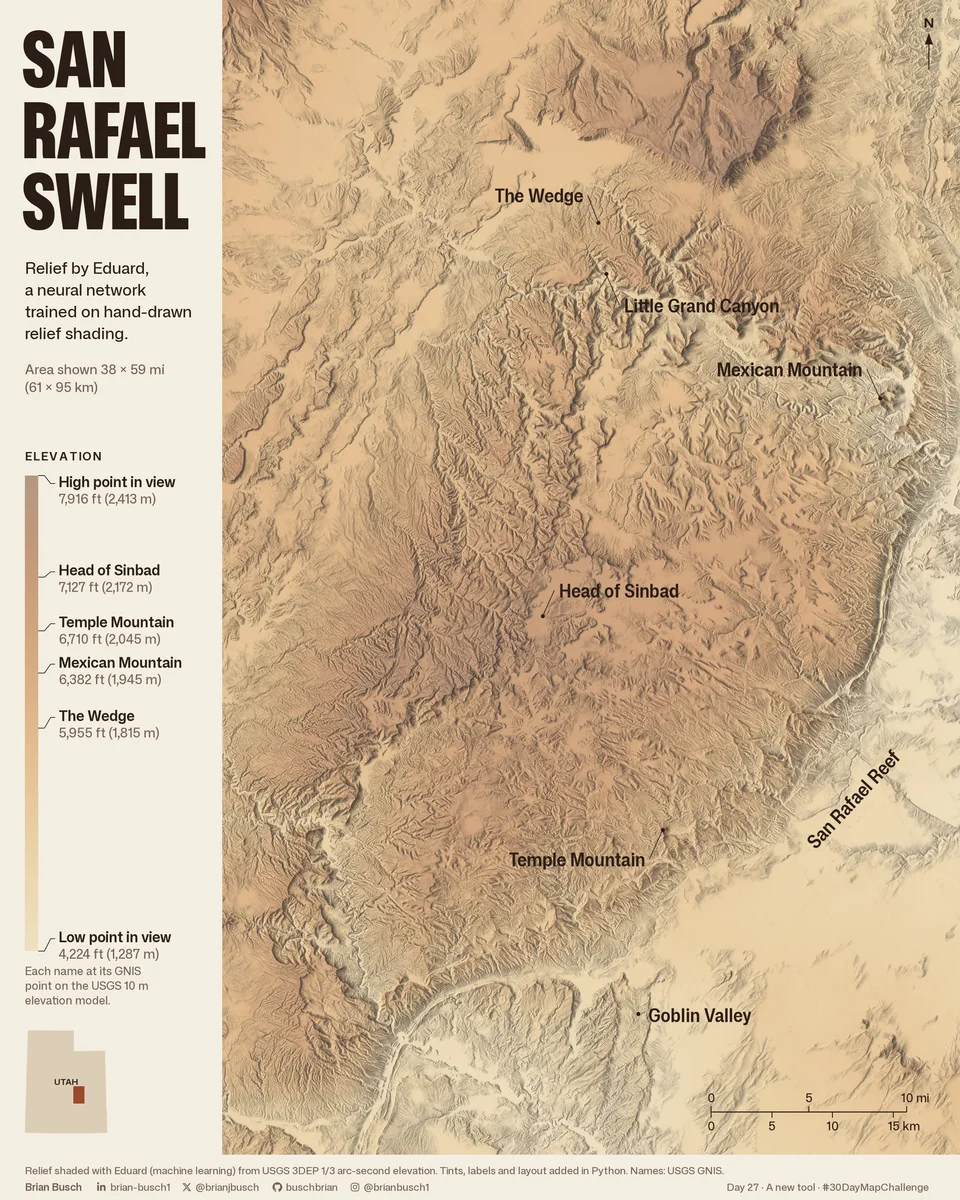
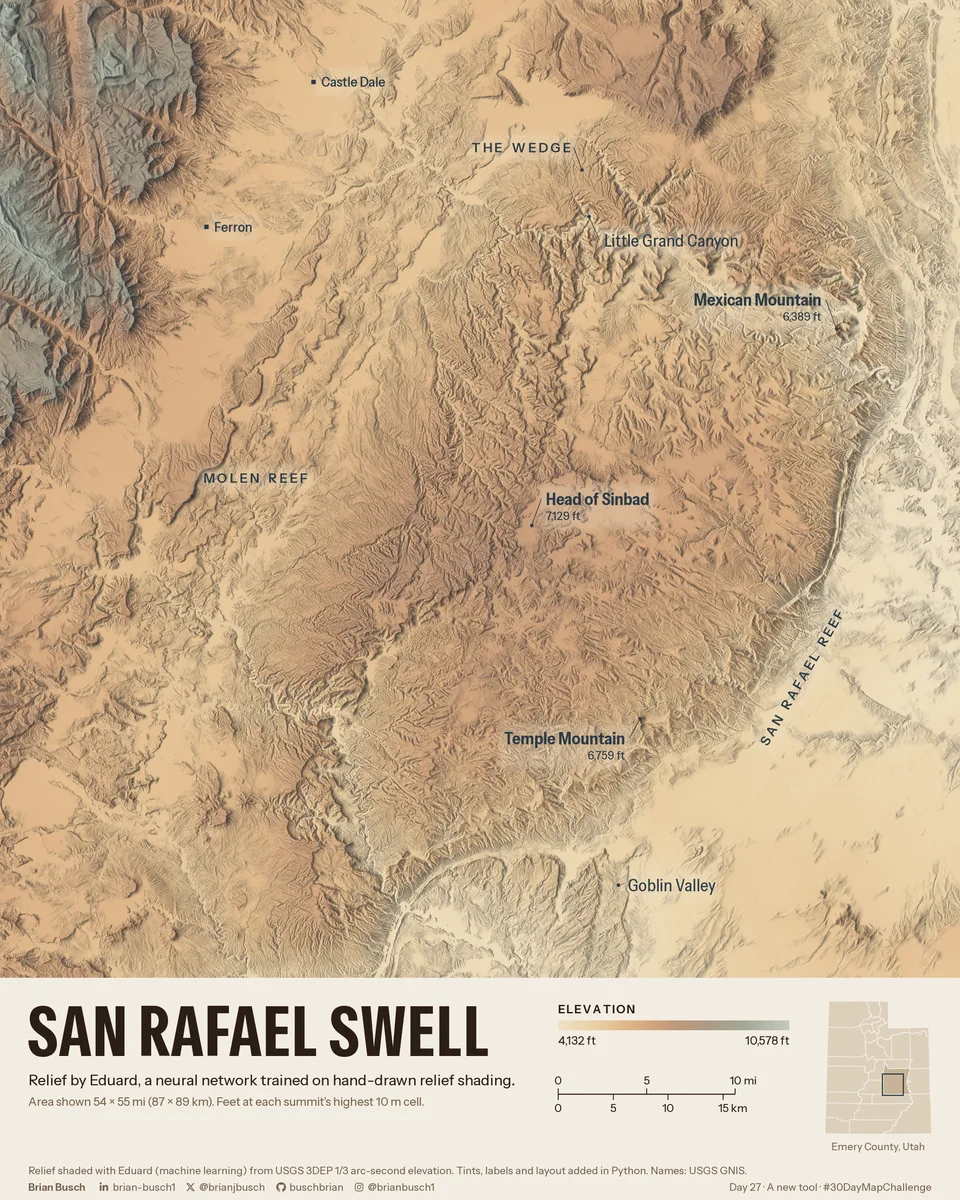
Use the band layout for the Day 27 map
The map now shows the whole shading frame with the title, key and
locator in a band under it. The north arrow is gone. Summit labels
give their height at the highest 10 m cell near each GNIS point.

Update the note text, alternative text and social card to match.

diff --git a/notes/shading-the-san-rafael-swell/index.html b/notes/shading-the-san-rafael-swell/index.html
@@ -17,7 +17,7 @@
     <meta property="og:title" content="Shading the San Rafael Swell | Brian Busch, GISP">
     <meta property="og:description" content="Eight tests with Eduard Cloud show how the terrain around the San Rafael Swell changes the look of its shaded relief.">
     <meta property="og:image" content="https://buschbrian.github.io/assets/images/shading-the-san-rafael-swell-card.jpg">
-    <meta property="og:image:alt" content="Tan shaded relief of the San Rafael Swell, with canyons and ridges along the eastern reef.">
+    <meta property="og:image:alt" content="Tan shaded relief of the south end of the San Rafael Swell, above the map title and elevation key.">
     <meta property="og:image:width" content="1200">
     <meta property="og:image:height" content="630">
     <meta property="article:author" content="Brian Busch">
@@ -74,7 +74,7 @@
           </div>
         </header>
         <figure class="post-hero-image">
-          <picture><source type="image/webp" srcset="/assets/images/r/san-rafael-swell-eduard-480.webp 480w, /assets/images/r/san-rafael-swell-eduard-960.webp 960w, /assets/images/r/san-rafael-swell-eduard-1440.webp 1440w, /assets/images/r/san-rafael-swell-eduard-2160.webp 2160w" sizes="(max-width: 720px) 90vw, 720px"><img src="/assets/images/san-rafael-swell-eduard.jpg" alt="Shaded relief of the San Rafael Swell. Light tan desert surrounds a darker brown dome cut by narrow canyons. The San Rafael Reef forms its sharp eastern edge. An elevation ladder marks Head of Sinbad, Temple Mountain, Mexican Mountain, and The Wedge." width="2160" height="2700"></picture>
+          <picture><source type="image/webp" srcset="/assets/images/r/san-rafael-swell-eduard-480.webp 480w, /assets/images/r/san-rafael-swell-eduard-960.webp 960w, /assets/images/r/san-rafael-swell-eduard-1440.webp 1440w, /assets/images/r/san-rafael-swell-eduard-2160.webp 2160w" sizes="(max-width: 720px) 90vw, 720px"><img src="/assets/images/san-rafael-swell-eduard.jpg" alt="Shaded relief of the San Rafael Swell. Light tan desert surrounds a darker brown dome cut by narrow canyons. The San Rafael Reef forms its sharp eastern edge. The gray-green Wasatch Plateau rises in the northwest corner. Labels give the height of Head of Sinbad, Temple Mountain, and Mexican Mountain." width="2160" height="2700"></picture>
           <figcaption>San Rafael Swell shaded in Eduard. <a href="/assets/images/san-rafael-swell-eduard.jpg">Open the full map</a>.</figcaption>
         </figure>
         <div class="post-content">
@@ -82,10 +82,16 @@
           <p>I used one USGS elevation model for a GDAL multidirectional hillshade and eight tests in Eduard Cloud. The grid has cells about 10 meters across. Eduard learned to shade terrain from examples of hand-drawn relief. The tool credits Monash University and ETH Zurich.</p>
           <p>In this comparison, Eduard kept more of the small canyons and valley floors visible along the San Rafael Reef. I judged this by looking at the two images in the same area.</p>
           <h2>The shading frame changed the contrast</h2>
-          <p>The elevation model reaches 10,578 feet at the edge of the Wasatch Plateau. In the tests with aerial perspective at 75 and 100, much of the Swell faded beside the higher terrain. I kept the plateau in the shading frame and cropped it out of the finished map.</p>
+          <p>The elevation model reaches 10,578 feet at the edge of the Wasatch Plateau. In the tests with aerial perspective at 75 and 100, much of the Swell faded beside the higher terrain. I kept the plateau in the shading frame. The finished map shows it in the northwest corner.</p>
           <p>The final map uses aerial perspective 20, contrast 70, light turned 30 degrees west, and the Large shading style.</p>
-          <h2>Read the elevation ladder</h2>
-          <p>Color shows elevation. Four places on the left run from Head of Sinbad at 7,127 feet to The Wedge at 5,955 feet. Each value comes from the elevation grid at the named point in the USGS database.</p>
+          <h2>Read the elevations</h2>
+          <p>Color shows elevation, from 4,132 feet in the desert to 10,578 feet on the plateau. Three summits show their height:</p>
+          <ul>
+            <li>Head of Sinbad, 7,129 feet</li>
+            <li>Temple Mountain, 6,759 feet</li>
+            <li>Mexican Mountain, 6,389 feet</li>
+          </ul>
+          <p>Each height is the highest cell of the elevation grid within 200 meters of the named point in the USGS database.</p>
           <p>Terrain from the <a href="https://www.usgs.gov/3d-elevation-program">USGS 3D Elevation Program</a>. Place names from the <a href="https://www.usgs.gov/us-board-on-geographic-names/domestic-names">USGS Geographic Names Information System</a>. Relief drawn in <a href="https://eduard.earth/">Eduard</a>. I worked through the data, map and layout with Claude.</p>
         </div>
         <div class="post-content">

diff --git a/projects/index.html b/projects/index.html
@@ -431,7 +431,7 @@
         </a>
 
         <a class="map-card" id="shading-the-san-rafael-swell" href="/notes/shading-the-san-rafael-swell/">
-          <picture><source type="image/webp" srcset="/assets/images/r/san-rafael-swell-eduard-480.webp 480w, /assets/images/r/san-rafael-swell-eduard-960.webp 960w, /assets/images/r/san-rafael-swell-eduard-1440.webp 1440w, /assets/images/r/san-rafael-swell-eduard-2160.webp 2160w" sizes="(max-width: 640px) 90vw, (max-width: 1024px) 44vw, 345px"><img src="/assets/images/san-rafael-swell-eduard.jpg" alt="Shaded relief of the San Rafael Swell. Light tan desert surrounds a darker brown dome cut by narrow canyons. The San Rafael Reef forms its sharp eastern edge. An elevation ladder marks Head of Sinbad, Temple Mountain, Mexican Mountain, and The Wedge." width="2160" height="2700" loading="lazy"></picture>
+          <picture><source type="image/webp" srcset="/assets/images/r/san-rafael-swell-eduard-480.webp 480w, /assets/images/r/san-rafael-swell-eduard-960.webp 960w, /assets/images/r/san-rafael-swell-eduard-1440.webp 1440w, /assets/images/r/san-rafael-swell-eduard-2160.webp 2160w" sizes="(max-width: 640px) 90vw, (max-width: 1024px) 44vw, 345px"><img src="/assets/images/san-rafael-swell-eduard.jpg" alt="Shaded relief of the San Rafael Swell. Light tan desert surrounds a darker brown dome cut by narrow canyons. The San Rafael Reef forms its sharp eastern edge. The gray-green Wasatch Plateau rises in the northwest corner. Labels give the height of Head of Sinbad, Temple Mountain, and Mexican Mountain." width="2160" height="2700" loading="lazy"></picture>
           <p class="project-meta">30 Day Map Challenge 2026 | Day 27: New tool</p>
           <h3>Shading the San Rafael Swell</h3>
           <p>Eight tests with Eduard Cloud show how the terrain around the San Rafael Swell changes the look of its shaded relief.</p>
